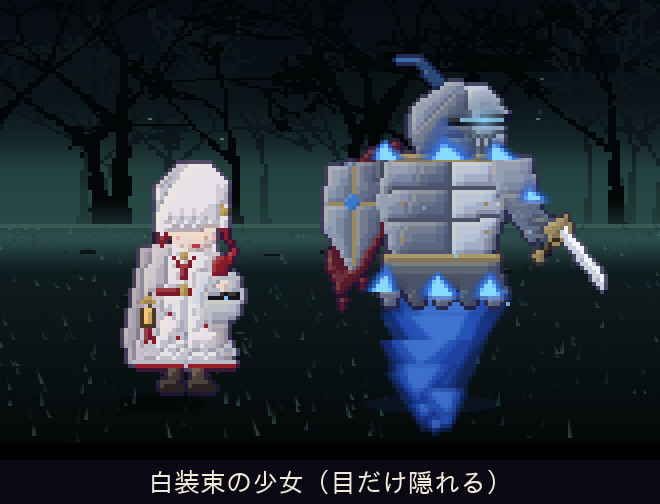
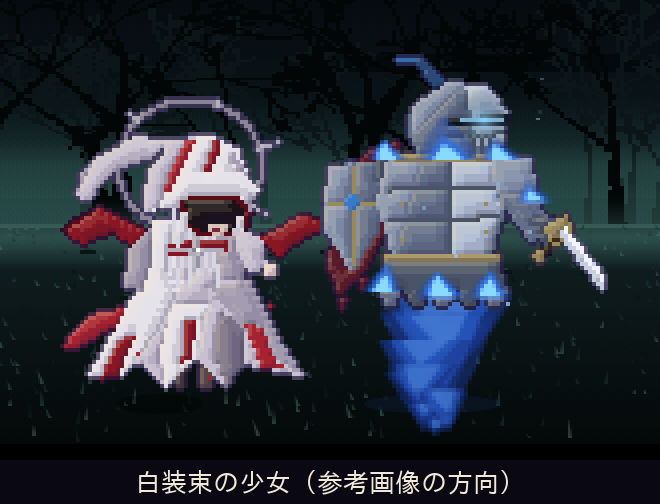
見本：白装束の少女を参考画像の方向に
Claude-Session: https://claude.ai/code/session_01WH54oS4KmYdGRLZPTJSRWC

Changed region(s): [[0.0909, 0.1786, 0.4848, 0.8036], [0.2121, 0.9226, 0.7879, 0.9821]]

diff --git a/dev/mock/girls3.js b/dev/mock/girls3.js
@@ -77,3 +77,43 @@ SD.gc=[38,42,3,A0=>{const A=OFS(A0,2),{t,l,e,r,q,sh,pt}=A;const PV='#4a3e56',PV2
  // 手前の腕：小さな鐘を鳴らす
  pt('af',()=>{t([[23.4,14.6],[26,15],[28.6,18.6],[27,20]],PV2);e(28,19.6,1,.9,SK);l(28.4,18.6,30,15,'#5a4a3a',.3);t([[29,15],[31.6,15],[32,18.4],[28.6,18.4]],GD);t([[29.6,15],[31,15],[31.2,17.6],[29.4,17.6]],'#d8c070');e(30.3,18.8,.5,.5,'#8a6a30')});
  sh();pt('hd',()=>{l(21.4,13.8,22.4,13.8,'#a8505a',.18)})}];
+// 案x（ユーザーの参考画像の方向）：高く尖った白い頭巾、紙を折ったような角ばった布の重なり、赤い十字と赤い裏地、なびく赤いリボン、背後に棘の付いた輪、胸に銀の星の留め具。顔は影に沈み、口元がわずかに見える
+SD.gx=[44,50,3,A0=>{const A=OFS(A0,4),{t,l,e,r,q,sh,pt}=A;const W1='#e6e2ea',W2='#cac2d2',W3='#a49cb0',W4='#7a7288',R1='#8a1622',R2='#a82230',R3='#5a0c16',SV='#b0aebc',HL='#8a8494',HR='#d8d6e0';
+ // 背後の棘の輪
+ for(let k=0;k<28;k++){const a=k/28*6.283,b=(k+1)/28*6.283;l(21+Math.cos(a)*12,7+Math.sin(a)*11,21+Math.cos(b)*12,7+Math.sin(b)*11,HL,.45)}
+ for(const a of[-2.4,-1.2,-.3,.6])t([[21+Math.cos(a)*11.4,7+Math.sin(a)*10.4],[21+Math.cos(a)*16,7+Math.sin(a)*14.6],[21+Math.cos(a+.08)*11.8,7+Math.sin(a+.08)*10.8]],SV);
+ // 奥へなびく赤いリボン
+ t([[14,18],[6,14],[0,18],[3,20],[8,18],[13,21]],R1);t([[6,14],[0,18],[2,16]],R3);t([[14,30],[4,32],[-1,38],[3,37],[8,34],[14,33]],R2);
+ // 脚（裾の奥にわずか）
+ pt('lb',()=>{t([[18.6,40],[20.4,40],[20.2,44],[18.4,44]],'#4a3a3c')});pt('lf',()=>{t([[22.6,40],[24.4,40],[24.8,44],[22.8,44]],'#5a4648')});
+ // 広がる裾：角ばった布の重なり
+ t([[13,26],[31,26],[36,36],[40,42],[30,40],[27,44],[22,39],[17,44],[13,40],[4,42],[8,35]],W2);
+ t([[13,26],[20,26],[16,34],[10,42],[4,42],[8,35]],W1);t([[24,27],[31,26],[36,36],[40,42],[33,38],[28,32]],W3);t([[18,30],[24,30],[22,39],[17,44],[16,38]],W1);t([[26,31],[30,34],[30,40],[27,44],[25,38]],W4);
+ // 裾の赤い帯（斜め）
+ t([[9,36],[12,35],[9,42],[6,42.4]],R1);t([[30,33],[33,34],[36,41],[33,41]],R2);t([[20,33],[22,33],[21.4,39],[19.6,40]],R1);
+ // 胴：重ねた布
+ t([[15,16],[29,16],[30,26],[14,26]],W2);t([[15,16],[20,16],[18,26],[14,26]],W1);t([[25,17],[29,16],[30,26],[26,26]],W3);
+ // 胸に流れる白い髪
+ for(let k=0;k<6;k++)l(18.6+k*1.2,14,17.6+k*1.6,24+((k*3)%4),HR,.3);
+ // 胸の銀の星の留め具と赤い帯
+ t([[17,20],[27,19],[27.4,21],[17.2,22]],R1);t([[22,17],[23,20.4],[26.6,21],[23,21.8],[22,25.6],[21,21.8],[17.4,21],[21,20.4]],SV);q(22,21,'#ffffff');
+ // 奥の腕（布に包まれる）
+ pt('ab',()=>{t([[15,17],[11,21],[10,27],[13,28],[15,22]],W3)});
+ // 頭巾：丸く膨らみ、先は後ろへ長く垂れる。前のつばが顔に深くかぶさり、顔は影に沈む。裏地は赤
+ pt('hd',()=>{t([[13,15],[14,8],[18,3],[24,1.6],[29,4],[31,9],[31.4,15],[28,14],[17,14]],W1);t([[13,15],[14,8],[18,3],[22,2],[18,8],[16,14]],W2);t([[28,4],[31,9],[31.4,15],[29,12]],W3);
+  // 後ろへ垂れる長い先
+  t([[18,3],[12,2],[5,6],[2,12],[4,13],[8,8],[14,6]],W2);t([[5,6],[2,12],[3,8]],W3);
+  // 前へ張り出すつばと影
+  t([[18,9],[30,8],[33,11],[30,12.6],[19,13]],W1);t([[19.4,12.6],[24,11.8],[29,12],[31.2,14.6],[30.4,17.4],[27,19],[22.6,18.8],[20,16.6]],R3);t([[20.2,13],[24,12.4],[28.6,12.6],[30.4,14.8],[29.6,17],[26.6,18.4],[23,18.2],[20.8,16.4]],'#1a1218');
+  t([[23.8,17],[27.4,16.8],[26.8,18.4],[24.6,18.6]],'#d8c0b8');t([[24.6,17.6],[26.2,17.5],[25.9,18],[24.8,18]],'#7a2a34');
+  // 頭巾の斜めの赤い筋（十字にはしない）
+  t([[20,3],[22,2.6],[18,11],[16.4,11.2]],R2);t([[25,2.6],[26.4,3.4],[24.6,8],[23.4,7.6]],R1);
+  // 髪の房がつばの下からこぼれる
+  t([[19.4,15],[21,15],[20,20],[18.6,21]],HR);t([[28.6,15],[30,15.6],[30.2,20],[29,19]],HR)});
+ // 手前の腕：布の中から細い手
+ pt('af',()=>{t([[28,17],[33,19],[34,24],[31,25],[29,21]],W2);t([[33,23],[35,23.4],[35.2,25.4],[33.4,25.4]],'#e8d4cc');
+  t([[33,19],[40,15],[44,17],[40,19],[36,22]],R1);t([[40,15],[44,17],[42,16]],R3)});
+ sh();
+ // 影の中の口元（わずかに）
+ 
+ for(const[a,b]of[[12,38],[34,30],[24,42],[36,40]])q(a,b,R2)}];
